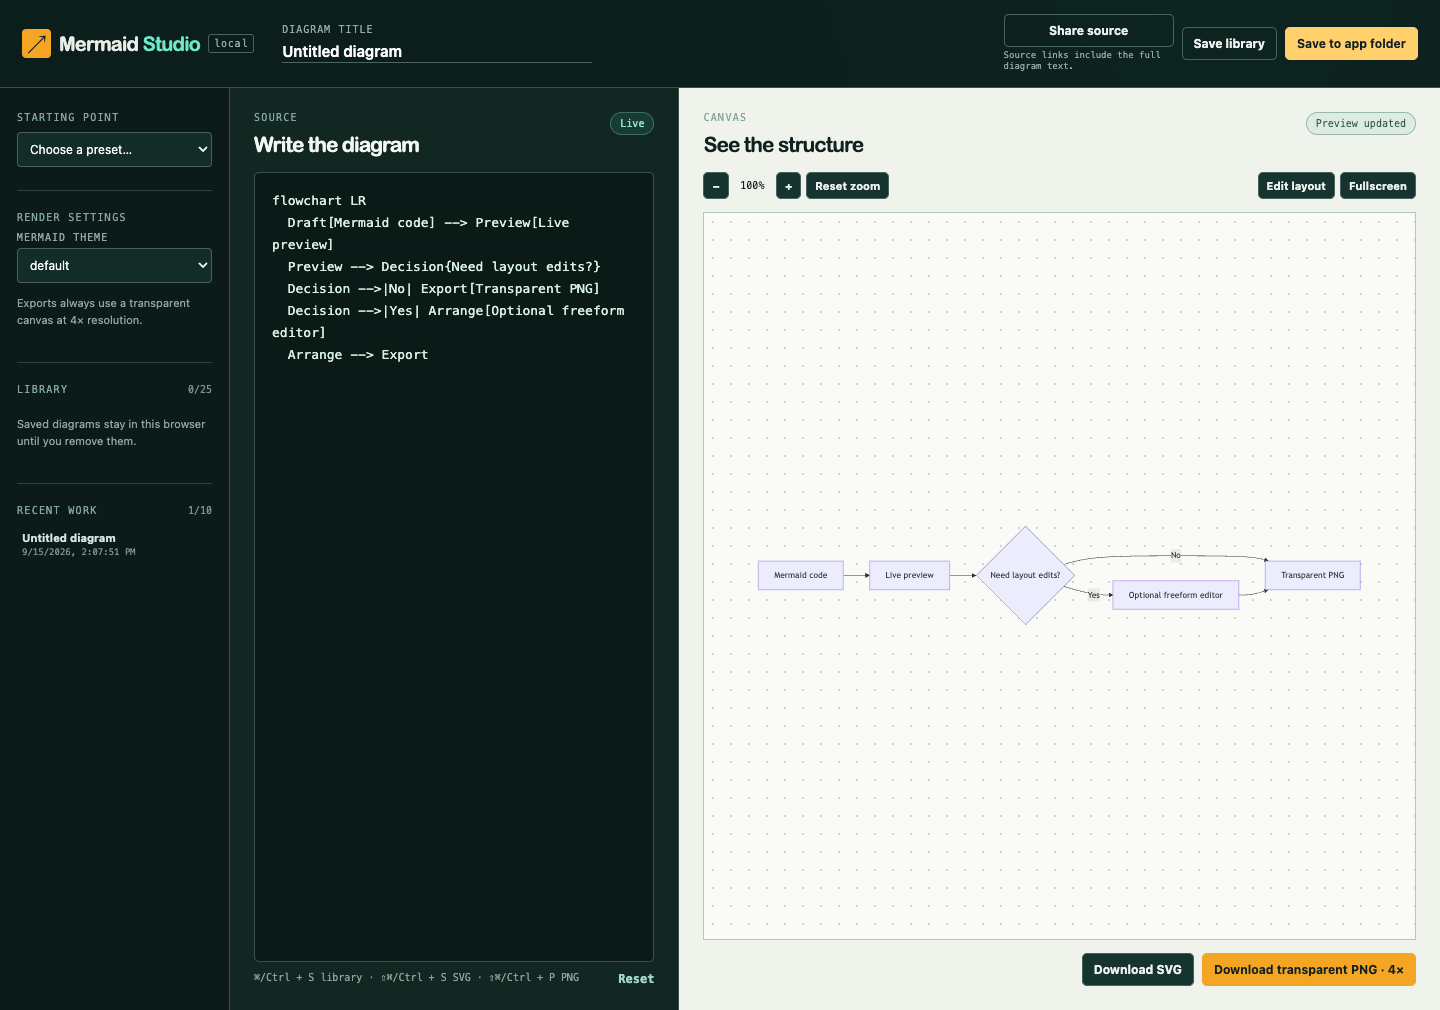
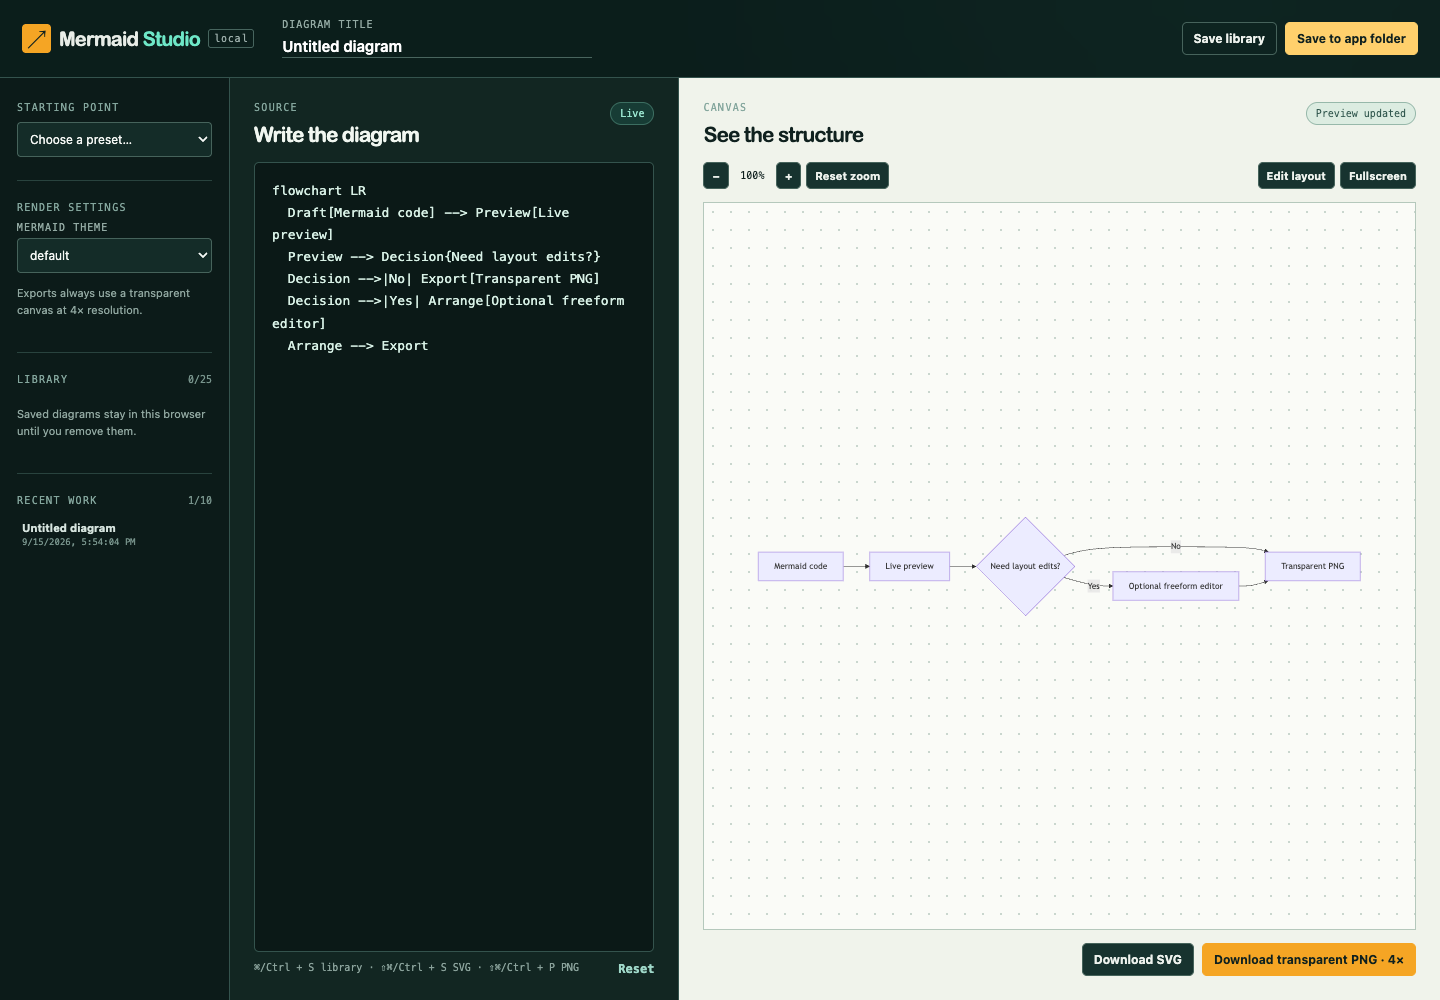
Remove Mermaid source sharing

diff --git a/src/styles.css b/src/styles.css
@@ -7,7 +7,7 @@ button:focus-visible, input:focus-visible, select:focus-visible, textarea:focus-
 .app-shell { min-height: 100vh; display: grid; grid-template-rows: auto 1fr; background: radial-gradient(circle at 85% -10%, #23584e 0, transparent 34rem), #10211f; }
 .topbar { min-height: 78px; padding: 14px 22px; display: flex; align-items: center; gap: 28px; border-bottom: 1px solid #34534d; background: rgba(11, 29, 27, .86); backdrop-filter: blur(18px); }
 .brand { font-family: "Arial Rounded MT Bold", -apple-system, sans-serif; font-size: 20px; white-space: nowrap; display: flex; align-items: center; gap: 8px; letter-spacing: -.04em; }.brand b { color: #6ee7c7; }.brand em { color: #9caeaa; font: 500 10px ui-monospace, SFMono-Regular, Menlo, monospace; letter-spacing: .08em; border: 1px solid #47655e; padding: 3px 5px; border-radius: 3px; }.brand-mark { display: grid; place-items: center; width: 29px; height: 29px; color: #10211f; background: #f5a524; border-radius: 4px; }
-.title-input { width: min(310px, 28vw); }.title-input label, .field-label { display: block; font: 500 10px ui-monospace, SFMono-Regular, Menlo, monospace; color: #93aaa3; text-transform: uppercase; letter-spacing: .1em; margin-bottom: 5px; }.title-input input { width: 100%; border: 0; color: #fff; background: transparent; font: 600 15px -apple-system, BlinkMacSystemFont, "Segoe UI", sans-serif; padding: 2px 0; border-bottom: 1px solid #49655e; }.header-actions { display: flex; align-items: center; gap: 8px; margin-left: auto; }.share-action { display: grid; gap: 3px; }.share-action span { max-width: 170px; color: #93aaa3; font: 9px/1.25 ui-monospace, SFMono-Regular, Menlo, monospace; }
+.title-input { width: min(310px, 28vw); }.title-input label, .field-label { display: block; font: 500 10px ui-monospace, SFMono-Regular, Menlo, monospace; color: #93aaa3; text-transform: uppercase; letter-spacing: .1em; margin-bottom: 5px; }.title-input input { width: 100%; border: 0; color: #fff; background: transparent; font: 600 15px -apple-system, BlinkMacSystemFont, "Segoe UI", sans-serif; padding: 2px 0; border-bottom: 1px solid #49655e; }.header-actions { display: flex; align-items: center; gap: 8px; margin-left: auto; }
 button { border: 1px solid #46635b; color: #edf2ed; background: #17332f; border-radius: 5px; padding: 8px 11px; font-size: 12px; font-weight: 700; transition: background .16s, color .16s, border-color .16s, transform .16s; } button:hover:not(:disabled) { background: #244b43; border-color: #6ee7c7; } button:active:not(:disabled) { transform: translateY(1px); } button:disabled { cursor: not-allowed; opacity: .45; }.primary { color: #10211f; border-color: #f5a524; background: #f5a524; }.primary:hover:not(:disabled) { background: #ffd06c; border-color: #ffd06c; }.ghost { background: transparent; }.text-button { padding: 0; border: 0; background: transparent; color: #9fd8c9; }.text-button:hover { background: transparent; }
 .workspace { display: grid; grid-template-columns: 230px minmax(280px, .78fr) minmax(450px, 1.32fr); min-height: 0; }.sidebar { min-height: calc(100vh - 78px); padding: 24px 17px; overflow: auto; background: #0c1b19; border-right: 1px solid #34534d; }.sidebar section { padding: 0 0 23px; margin-bottom: 21px; border-bottom: 1px solid #29433e; }.sidebar section:last-child { border: 0; }.eyebrow { margin: 0 0 9px; color: #84a69d; font: 500 10px ui-monospace, SFMono-Regular, Menlo, monospace; letter-spacing: .13em; text-transform: uppercase; }.sidebar select { width: 100%; }.sidebar select, .sidebar input { color: #f5f8f5; border: 1px solid #46635b; background: #142c28; border-radius: 4px; padding: 8px; font-size: 12px; }.tiny-note, .empty-copy { color: #8fa69f; font-size: 11px; line-height: 1.55; }.section-heading { display: flex; align-items: baseline; justify-content: space-between; }.section-heading span { color: #78948c; font: 10px ui-monospace, SFMono-Regular, Menlo, monospace; }.saved-list { margin: 0; padding: 0; list-style: none; }.saved-list li { display: flex; gap: 4px; margin-bottom: 4px; }.saved-list li button:first-child, .history-item { overflow: hidden; flex: 1; border: 0; background: transparent; text-align: left; padding: 6px 5px; color: #d6e4de; white-space: nowrap; text-overflow: ellipsis; font-size: 11px; }.saved-list li button:first-child:hover, .history-item:hover { background: #18342f; }.icon-button { border: 0; padding: 3px 7px; background: transparent; color: #8ea59e; }.history-item { display: block; width: 100%; }.history-item small { display: block; color: #78948c; font: 9px ui-monospace, SFMono-Regular, Menlo, monospace; margin-top: 3px; }
 .editor-pane, .preview-pane { min-height: calc(100vh - 78px); padding: 24px; display: flex; flex-direction: column; min-width: 0; }.editor-pane { background: #122622; border-right: 1px solid #34534d; }.preview-pane { position: relative; background: #f0f3eb; color: #10211f; }.pane-heading { display: flex; justify-content: space-between; align-items: flex-start; gap: 10px; margin-bottom: 16px; }.pane-heading h1 { margin: 0; font: 700 21px "Arial Rounded MT Bold", -apple-system, sans-serif; letter-spacing: -.045em; }.editor-pane .pane-heading h1 { color: #f1f7f1; }.status { max-width: 48%; overflow: hidden; color: #31574e; border: 1px solid #97b8aa; background: #dcece1; border-radius: 999px; padding: 5px 9px; font: 10px ui-monospace, SFMono-Regular, Menlo, monospace; text-overflow: ellipsis; white-space: nowrap; }.editor-pane .status { background: #173c35; border-color: #3c6e61; color: #9be6d0; }.status.error { color: #7f2518; background: #ffe0d4; border-color: #e89982; }

diff --git a/src/App.tsx b/src/App.tsx
@@ -14,23 +14,9 @@ const STARTER = `flowchart LR
 
 const THEMES: DiagramTheme[] = ["default", "dark", "forest", "neutral", "base"];
 
-function readSharedDiagram(): string | undefined {
-  try {
-    const fragment = window.location.hash.startsWith("#") ? window.location.hash.slice(1) : window.location.hash;
-    const encoded = new URLSearchParams(fragment).get("diagram") ?? new URLSearchParams(window.location.search).get("diagram");
-    return encoded ? decodeURIComponent(escape(atob(encoded))) : undefined;
-  } catch {
-    return undefined;
-  }
-}
-
-function encodeDiagram(source: string): string {
-  return btoa(unescape(encodeURIComponent(source)));
-}
-
 function App() {
   const [title, setTitle] = useState("Untitled diagram");
-  const [source, setSource] = useState(() => readSharedDiagram() ?? STARTER);
+  const [source, setSource] = useState(STARTER);
   const [theme, setTheme] = useState<DiagramTheme>("default");
   const [svgMarkup, setSvgMarkup] = useState("");
   const [error, setError] = useState("");
@@ -176,18 +162,6 @@ function App() {
     }
   }, [buildPng, remember, title]);
 
-  const share = useCallback(async () => {
-    const url = new URL(window.location.href);
-    url.search = "";
-    url.hash = `diagram=${encodeURIComponent(encodeDiagram(source))}`;
-    try {
-      await navigator.clipboard.writeText(url.toString());
-      setNotice("Copied source link. Anyone with it can read the diagram text.");
-    } catch {
-      setNotice("Clipboard access was blocked. Copy the address bar URL instead.");
-    }
-  }, [source]);
-
   const loadDiagram = (item: SavedDiagram): void => {
     setTitle(item.title);
     setSource(item.source);
@@ -219,7 +193,6 @@ function App() {
         <div className="brand"><span className="brand-mark">↗</span><span>Mermaid <b>Studio</b></span><em>local</em></div>
         <div className="title-input"><label htmlFor="diagram-title">Diagram title</label><input id="diagram-title" value={title} onChange={(event) => setTitle(event.target.value)} maxLength={120} /></div>
         <div className="header-actions">
-          <div className="share-action"><button className="ghost" onClick={share} aria-describedby="share-privacy">Share source</button><span id="share-privacy">Source links include the full diagram text.</span></div>
           <button className="ghost" onClick={saveLocal}>Save library</button>
           <button className="primary" onClick={() => void saveToFolder()}>Save to app folder</button>
         </div>

diff --git a/RELEASE_READINESS.md b/RELEASE_READINESS.md
@@ -6,7 +6,7 @@ Status: **ready for an owner-reviewed source release; not yet a tagged release**
 
 ## Release boundary
 
-Mermaid Studio is a local diagram editor for developers and technical writers. The release is this source repository plus its development launchers. It is not a standalone, signed, or notarized Mac application. The canonical repository is `git@github.com:gauravsdama/mermaid-studio-local.git`; the verified release changes are committed locally through `8912b5f` and have not been pushed.
+Mermaid Studio is a local diagram editor for developers and technical writers. The release is this source repository plus its development launchers. It is not a standalone, signed, or notarized Mac application. The canonical repository is `git@github.com:gauravsdama/mermaid-studio-local.git`.
 
 The first-party source is owned by Gaurav Dama and licensed under MIT. The ignored `upstream/` checkouts were used only as product references. Their exact URLs, reviewed revisions, and license information are recorded in `NOTICES.md`. No reference application source is intentionally included.
 
@@ -23,16 +23,14 @@ The server, browser, and MCP checks use temporary artifact directories and clean
 
 ## Before tagging
 
-1. Review the local release commits, then push them when publication is approved.
-2. Run the pinned GitHub Actions workflow on the pushed commit. Local checks cannot prove the hosted runner result.
-3. Confirm the copyright name and MIT choice in `LICENSE`, `NOTICE`, `NOTICES.md`, `package.json`, and this file.
-4. Check the native viewer once with VoiceOver. Automated tests verify the same production page in Chromium and verify native process lifecycle, but they do not establish WebKit screen-reader quality.
-5. Record the release commit and retain the workflow result with the screenshot.
+1. Run the pinned GitHub Actions workflow on the pushed commit. Local checks cannot prove the hosted runner result.
+2. Confirm the copyright name and MIT choice in `LICENSE`, `NOTICE`, `NOTICES.md`, `package.json`, and this file.
+3. Check the native viewer once with VoiceOver. Automated tests verify the same production page in Chromium and verify native process lifecycle, but they do not establish WebKit screen-reader quality.
+4. Record the release commit and retain the workflow result with the screenshot.
 
 ## Known limits
 
 - The loopback API does not authenticate other processes running under the same local account. It rejects non-loopback Host and browser Origin values. A per-launch token is warranted only if untrusted local processes are in scope.
 - Headless PNG and SVG rendering still starts two Mermaid CLI processes per request. Admission scales modestly with available CPU and uses a bounded queue; the formats are rendered concurrently to reduce elapsed time.
 - Mermaid core and a few uncommon diagram renderers remain large lazy-loaded chunks. The main application bundle is about 213 kB minified, and diagram-specific code loads when requested.
-- Source-sharing URLs contain the complete Mermaid text. The source is kept in the URL fragment so it is not sent to the local server, but browsers and sharing tools may retain it.
 - The native viewer requires macOS 14 or later, Node 20 or later, this checkout, installed dependencies, and a completed web build.

diff --git a/docs/product/UI_COPY.md b/docs/product/UI_COPY.md
@@ -7,10 +7,6 @@ This file is the human-owned source of truth for visible and assistive copy. Kee
 | `app.brand` | Header | Mermaid Studio / local | `src/App.tsx` |
 | `diagram.title.default` | New draft | Untitled diagram | `src/App.tsx` |
 | `diagram.title.label` | Header field | Diagram title | `src/App.tsx` |
-| `share.action` | Header | Share source | `src/App.tsx` |
-| `share.privacy` | Header note | Source links include the full diagram text. | `src/App.tsx` |
-| `share.success` | Status | Copied source link. Anyone with it can read the diagram text. | `src/App.tsx` |
-| `share.failure` | Status | Clipboard access was blocked. Copy the address bar URL instead. | `src/App.tsx` |
 | `library.save` | Header | Save library | `src/App.tsx` |
 | `folder.save` | Header | Save to app folder | `src/App.tsx` |
 | `sidebar.label` | Navigation | Diagram tools | `src/App.tsx` |

diff --git a/README.md b/README.md
@@ -48,10 +48,6 @@ For development without compiling, run `npm run mcp` in a second terminal while 
 
 `npm run native:viewer` builds the web client and opens it in the included SwiftUI/WebKit development host. The host currently runs from this checkout and requires the installed Node dependencies and a system Node runtime. It is not a standalone, signed, or notarized macOS application package.
 
-## Source links
-
-**Share source** copies a URL whose fragment contains the complete Mermaid text. URL fragments are not sent to the local HTTP server, but the URL may still be retained by browser history, clipboard managers, synchronization, chat, or email. Do not share a source link when the diagram contains information its recipient should not read.
-
 ## Verification
 
 ```bash
